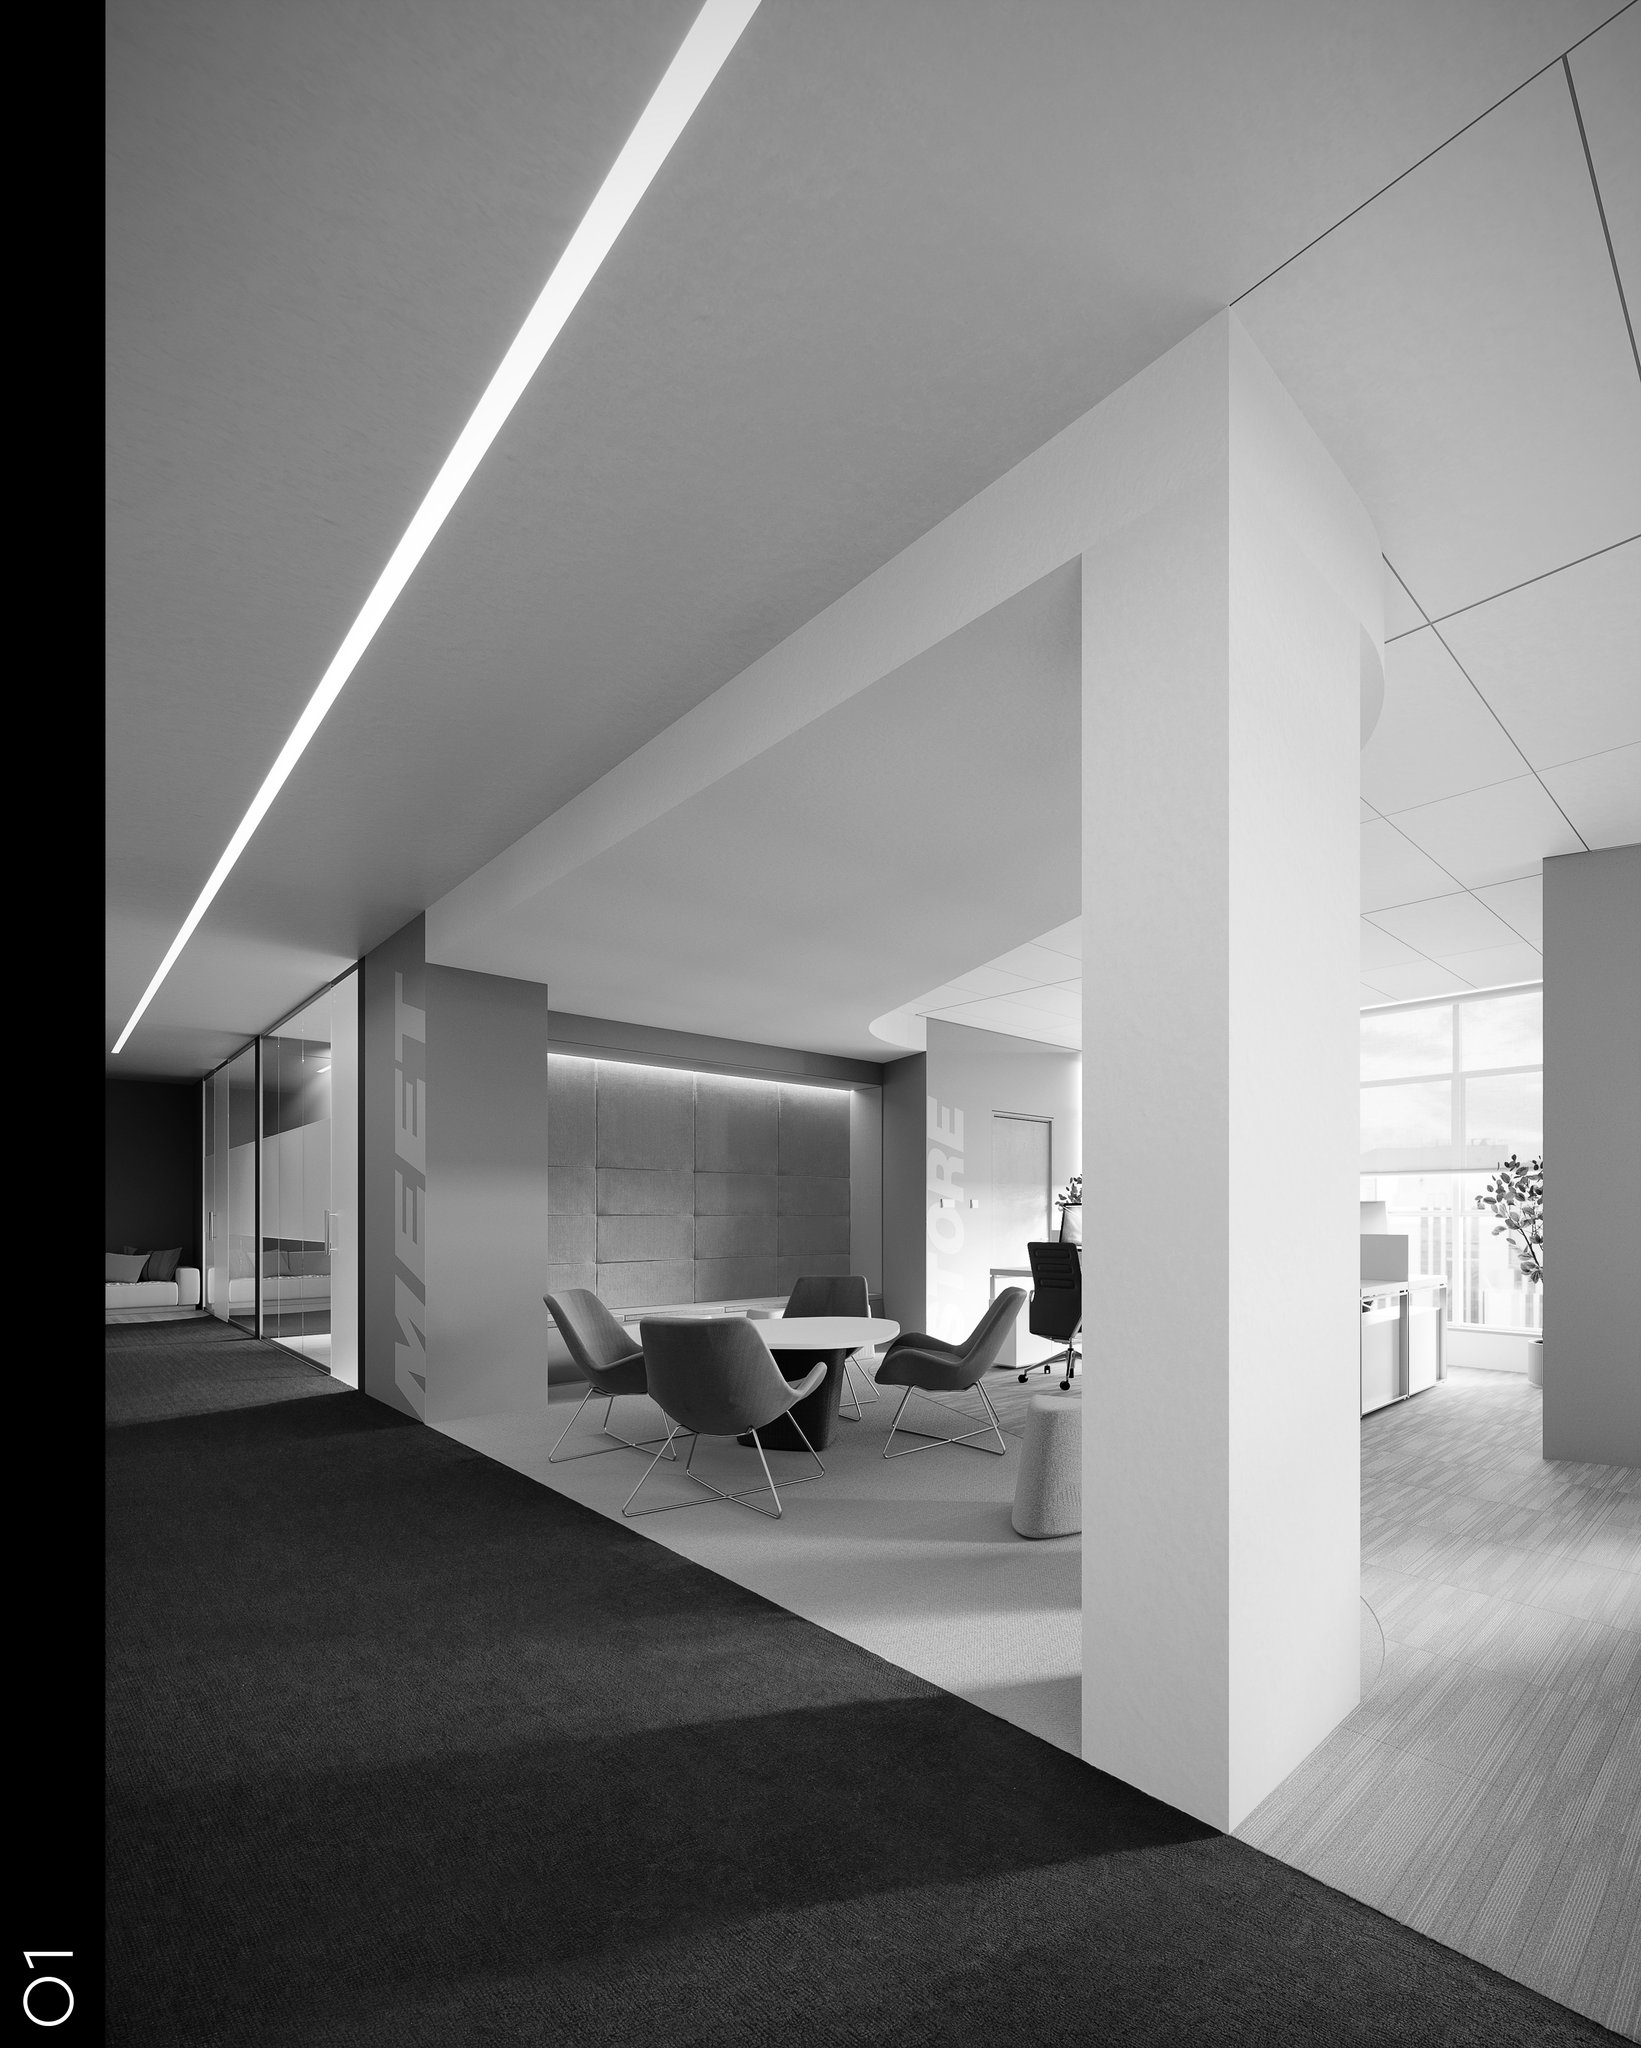
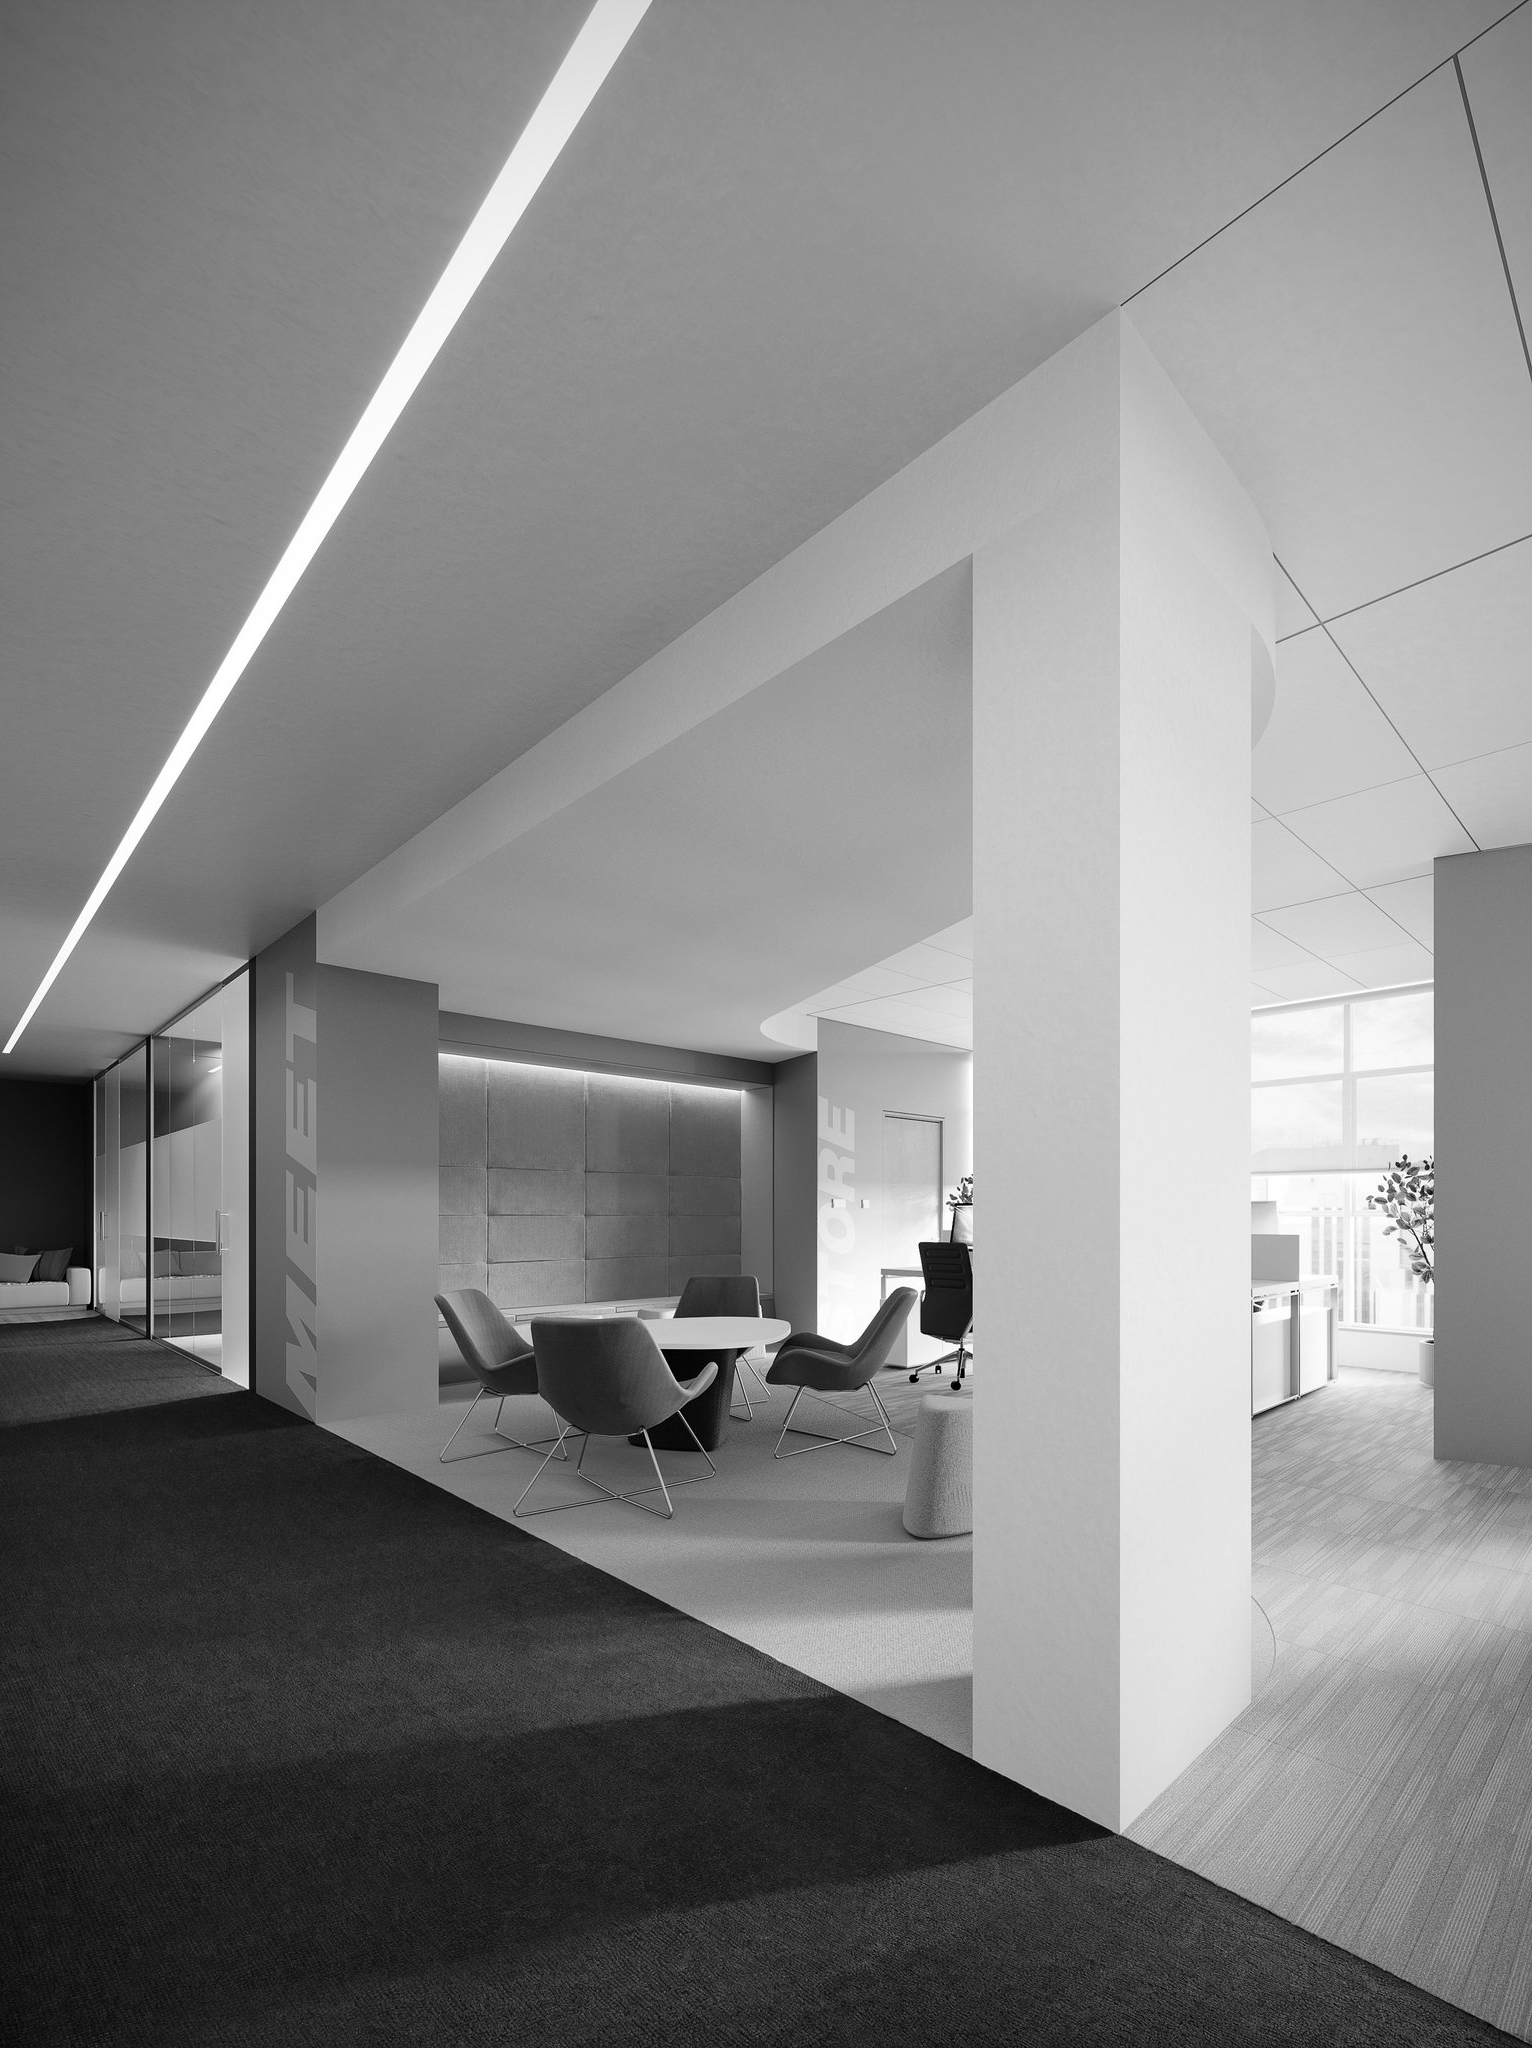
Land the Hubtel Nairobi crop, and let the page declare what the file actually is
The other machine wrote this file at 02:14 and nothing committed it, so the site kept serving the older
bytes. Standing rule from the owner tonight: an updated asset gets landed, not reported.

Measured before shipping, because the shape of it is misleading. HEAD holds 363,278 B at 1641x2048; the
disk copy is 1,032,849 B at 1532x2048 -- bigger file, fewer pixels, and on a 16x16 dHash the two rasters
score 54 bits apart, which would read as a DIFFERENT picture. They are not different. The committed copy
carries a 109-px near-black margin down its left edge (mean luma 3.6 against the body's 133.1) with the
plate number "01" burned into it, 1641 - 109 = 1532 exactly, and HEAD cropped to its content then resized
to the file scores MAD 0.18. So this is the same render with its dead edge removed, at 2.8x the bytes of an
over-compressed committed copy: the narrower file is the better one.

hubtel.html moves in the same commit because it declares width="1641" for a plate that is now 1532 wide.
No browser cares, but the site has a rule that a declared size must equal its file, and leaving the pair
half-landed is how the 2026-10-08 "declared sizes" cleanup had to happen at all. One attribute, one line.

The homepage slide bar is the one consequence worth stating. This file is pool-reachable in all three of
imageUrl / imageUrlDesktop / imageMobileUrl, and 1532 < the 1600w floor, so the crop cannot simply replace
[…]

diff --git a/hubtel.html b/hubtel.html
@@ -134,7 +134,7 @@
         <img width="2048" height="1152" src="assets/images/hubtel/hubtel-nairobi-1.jpg" alt="Hubtel Nairobi Workspace Meeting Space — wide landscape render" class="gallery-img" loading="lazy">
       </div>
       <div class="gallery-item">
-        <img width="1641" height="2048" src="assets/images/hubtel/hubtel-nairobi-2.jpg" alt="Hubtel Nairobi Workspace Meeting Space — vertical perspective render" class="gallery-img" loading="lazy">
+        <img width="1532" height="2048" src="assets/images/hubtel/hubtel-nairobi-2.jpg" alt="Hubtel Nairobi Workspace Meeting Space — vertical perspective render" class="gallery-img" loading="lazy">
       </div>
     </section>
 
